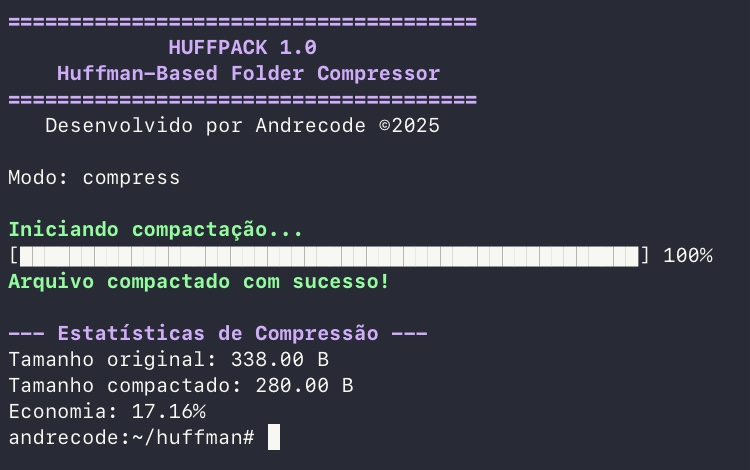
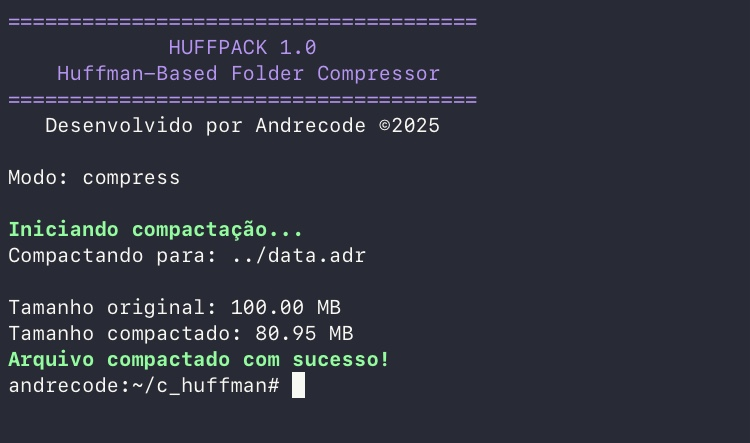
docs: nova imagem para README

diff --git a/huffman.c b/huffman.c
@@ -287,8 +287,6 @@ void compressSingleFileToStream(const char* filePath, const char* relativePath, 
             lastPercent = percent;
         }
     }
-    printf("\n");
-
 
     // se restaram bits nao gravados,
     // preenche com zeros a direita e grava o ultimo byte
@@ -343,11 +341,10 @@ void walkAndCompress(const char* basePath, const char* currentPath, FILE* output
         if (S_ISDIR(pathStat.st_mode)) {
             walkAndCompress(basePath, newCurrentPath, output); // recursao
         } else if (S_ISREG(pathStat.st_mode)) {
-            printf("Compressing: %s\n", newCurrentPath);
+            // limpa a barra
             compressSingleFileToStream(fullEntryPath, newCurrentPath, output);
-            // limpa a barra e o nome do arquivo
-            printf("\033[F\033[K"); // limpa a barra
-            printf("\033[F\033[K"); // limpa a linha
+            printf("\n");
+            printf("\033[F\033[K");
         }
     }
 
@@ -577,9 +574,9 @@ void printHumanSize(const char* label, long bytes) {
     int unitIndex = 0;
     double size = bytes;
 
-    // divide por 1024 até achar unidade apropriada
-    while (size >= 1024 && unitIndex < 4) {
-        size /= 1024.0;
+    // divide por 1000 até achar unidade apropriada
+    while (size >= 1000 && unitIndex < 4) {
+        size /= 1000.0;
         unitIndex++;
     }
 
